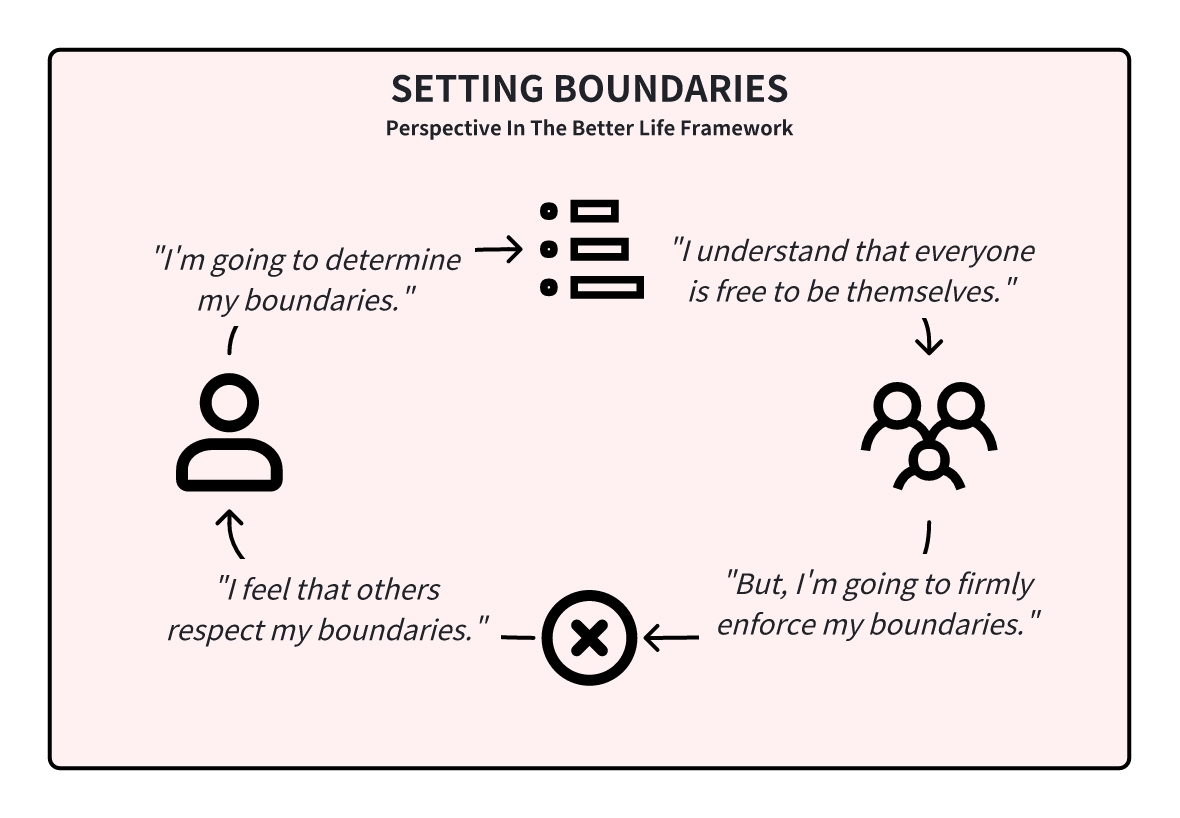
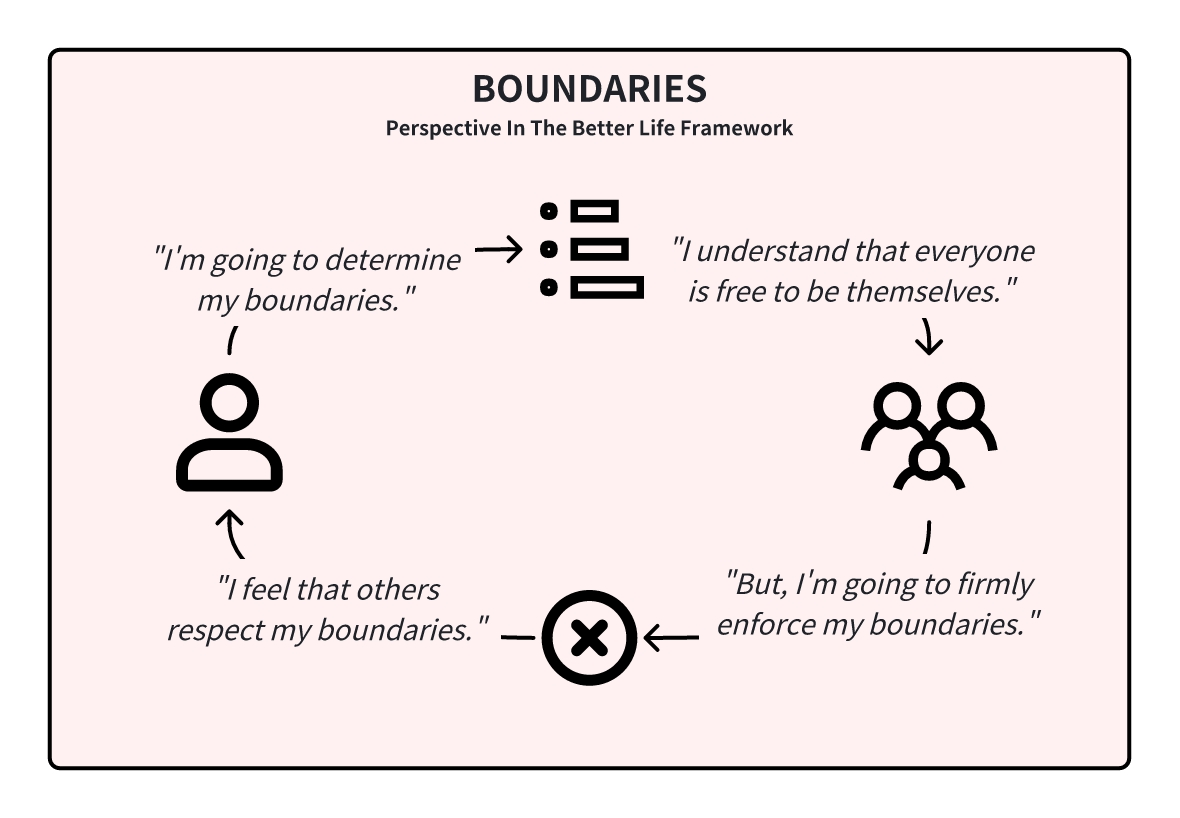
Update Framework

Changed region(s): [[0.3356, 0.0917, 0.6712, 0.1222]]

diff --git a/src/pages/understand-yourself/better-life-framework.tsx b/src/pages/understand-yourself/better-life-framework.tsx
@@ -117,7 +117,7 @@ const BetterLifeFrameworkPage = () => {
 
   const heroProps = {
     pathname,
-    lastUpdated: t("common:page-last-updated") + ": February 29, 2024", // This should be dynamic based on your data
+    lastUpdated: t("common:page-last-updated") + ": January 25, 2025", // This should be dynamic based on your data
     title: t("common:better-life-framework-title"),
     description: t("common:better-life-framework-description")
       .split('.')
